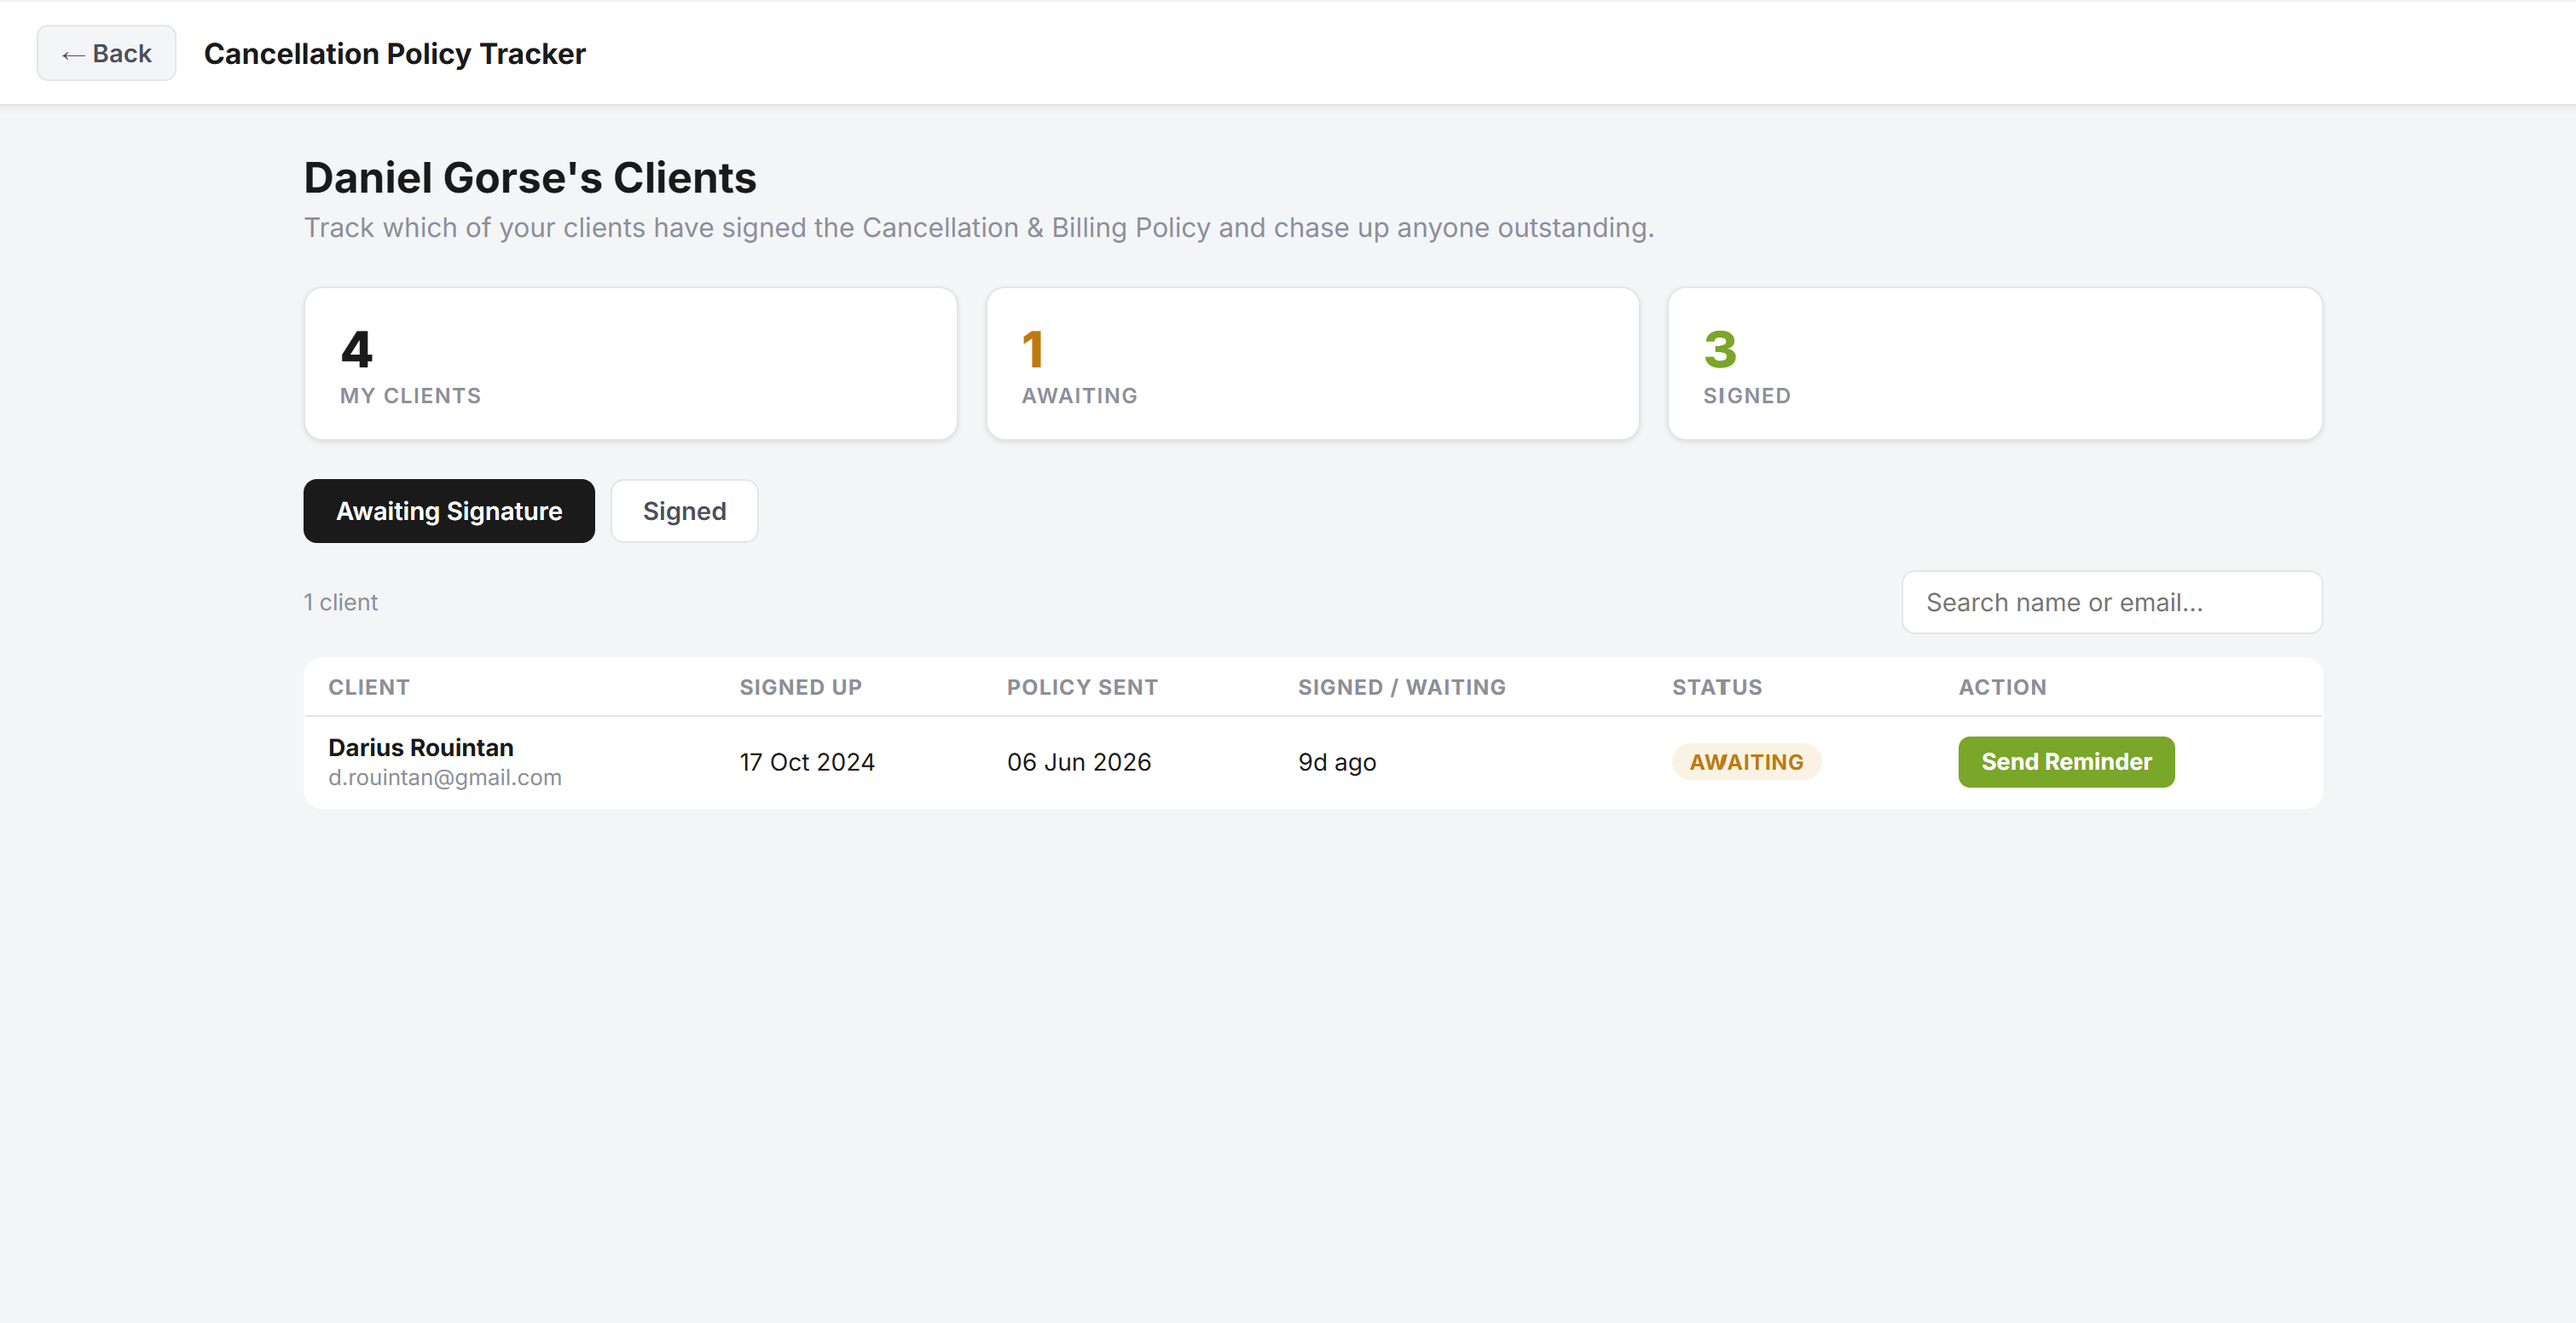
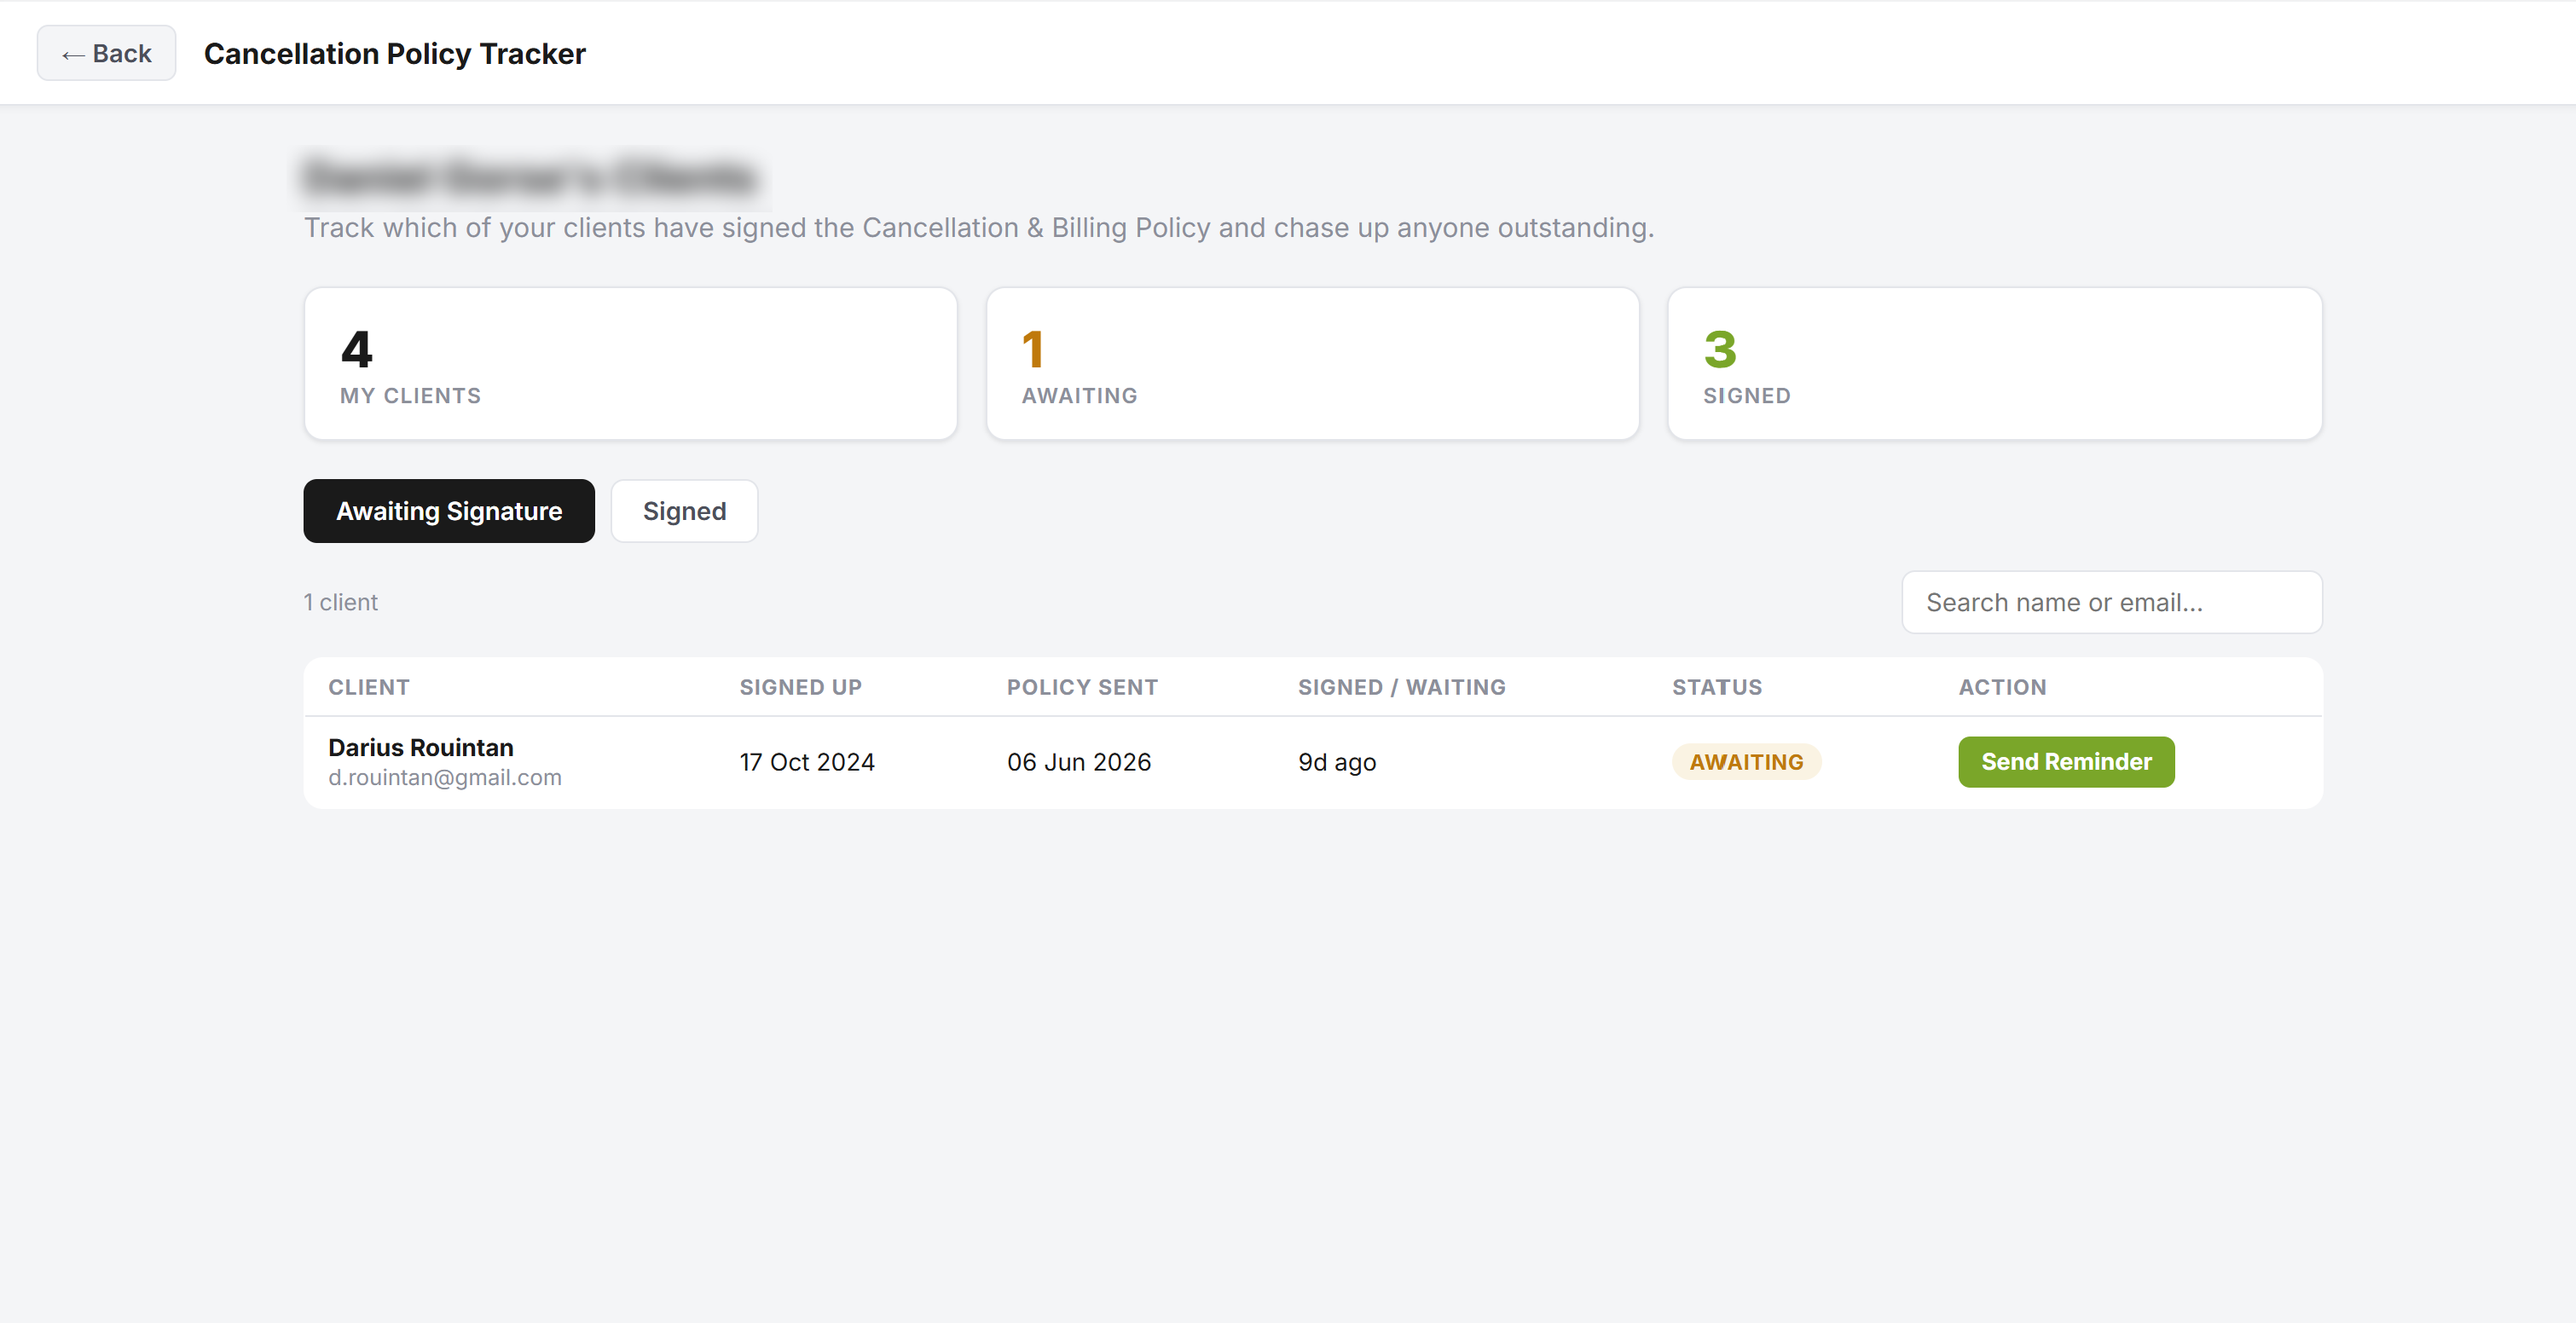
Drop 'ask Moghees' fallback from Step 1 login copy
Coaches already have their login by the time they read this guide, so
the fallback was clutter.

Changed region(s): [[0.0933, 0.0928, 0.3112, 0.1546]]

diff --git a/coaches/index.html b/coaches/index.html
@@ -519,7 +519,7 @@
   <div class="step-card">
     <div class="step-num">Step 1</div>
     <h3>Log in to Coach Hub</h3>
-    <p>Open <a href="https://coach.physiqueacademy.com">coach.physiqueacademy.com</a> as you normally do. Use your own coach login. If you don't have one yet, ask Moghees.</p>
+    <p>Open <a href="https://coach.physiqueacademy.com">coach.physiqueacademy.com</a> as you normally do. Use your own coach login.</p>
   </div>
 
   <div class="step-card">
